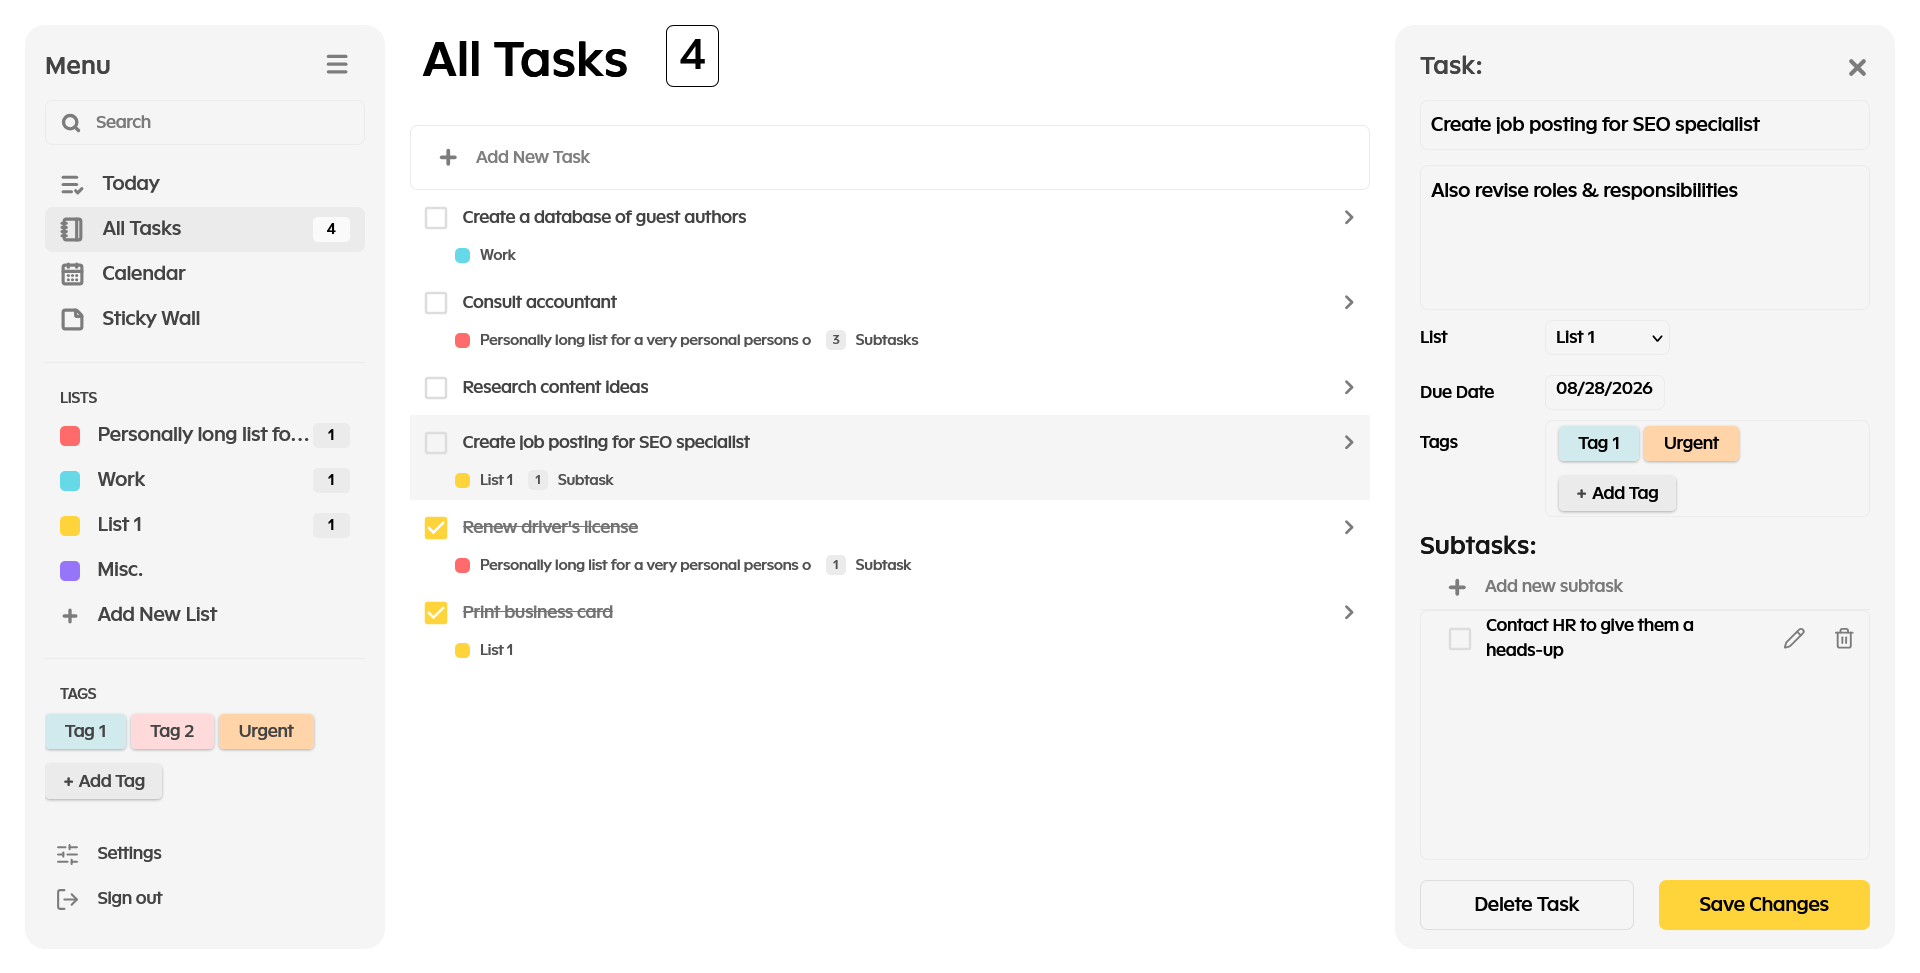
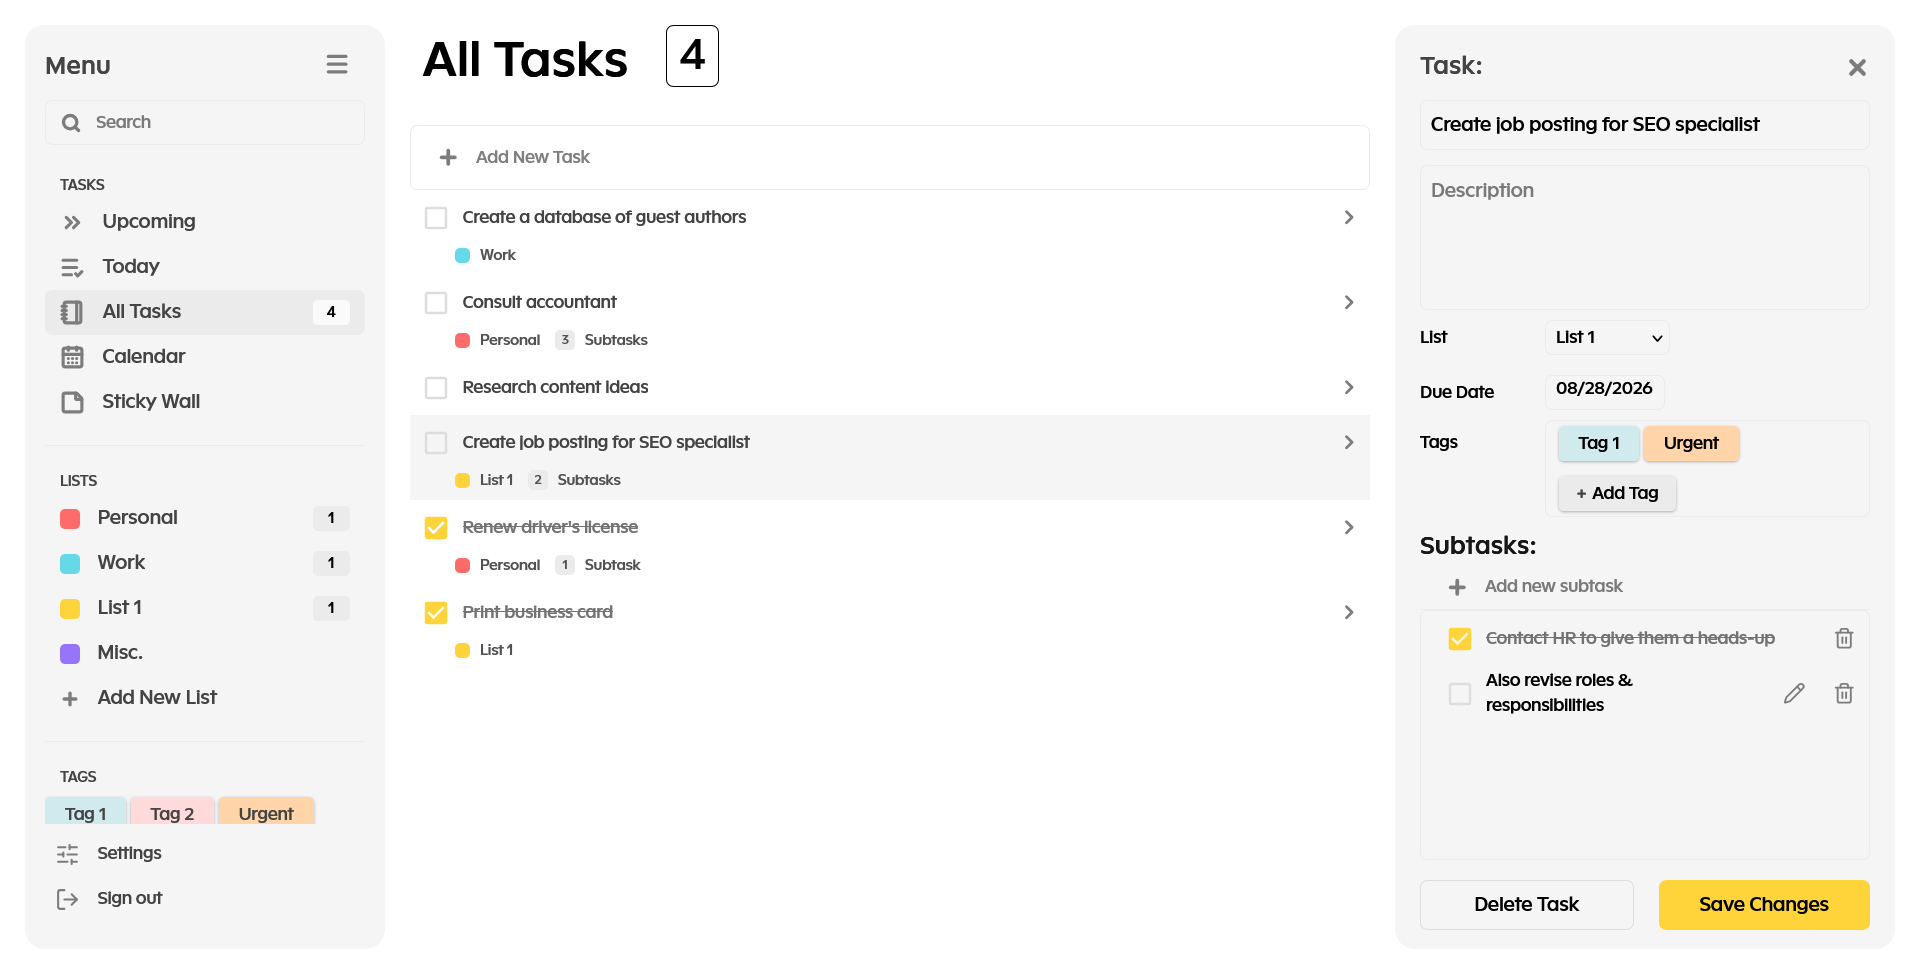
docs: finalize project documentation and release

diff --git a/README.md b/README.md
@@ -4,15 +4,17 @@ A full-stack MERN productivity application featuring authenticated multi-user ta
 
 ## Screenshot
 
-![Project Screenshot](image.png)
+![Application screenshot](image.png)
 
 ## Live Demo
 
-(to add once everything is deployed)
+[Live Application] https://task-manager-webapp-inky.vercel.app/
+
+[Source Code] https://github.com/Tim9675/task-manager-webapp
 
 ## Overview
 
-Users can organize work through lists, tags, subtasks, due dates, and notes, while each account's data is isolated through JWT-based authentication and authorization. The project was built as a portfolio application to demonstrate full-stack software engineering practices.
+Users can organize work through lists, tags, due dates, and notes, while each account's data is isolated through JWT-based authentication and authorization. The project was built as a portfolio application to demonstrate full-stack software engineering practices.
 
 ## Why I built this
 
@@ -24,7 +26,7 @@ This project began as an attempt to build a simple to-do application, a common p
 
 To accelerate my learning, I referenced both a UI design and a full-stack tutorial during the early stages of development. While these resources influenced the initial direction of the project, the application evolved significantly throughout development. The architecture, authentication system, validation layer, testing strategy, project structure, and many implementation details were redesigned or expanded based on what I learned along the way.
 
-The primary purpose of this project is to demonstrate my understanding of full-stack software engineering concepts rather than to serve as a production-ready SaaS application. As a result, the deployed version may periodically reset user accounts and application data to keep hosting costs manageable.
+The primary purpose of this project is to demonstrate my understanding of full-stack software engineering concepts rather than to serve as a production SaaS application. As a result, the deployed version may periodically reset user accounts and application data to keep hosting costs manageable.
 
 ### Video Reference
 
@@ -50,13 +52,13 @@ https://app.uizard.io/templates/XXJOvmKW0jhEyYZdmA7w/preview
 - Edit tasks
 - Delete tasks
 - Due date management
-- Add subtasks inside tasks
+- Create and manage subtasks
 
 ### Organization
 
-- Custom Lists
-- Custom Tags
-- Sticky notes linked to user accounts
+- Create and manage custom lists
+- Create and manage custom tags
+- Create and manage sticky notes
 
 ### Security
 
@@ -145,7 +147,6 @@ project-root/
     ├── index.html
     ├── package-lock.json
     ├── package.json
-    ├── README.md
     └── vite.config.js
 └── server/
     └── src/
@@ -197,6 +198,8 @@ npm install
 
 ## Environment Variables
 
+For local development, create the following .env files. Production environment variables are configured directly through the respective hosting platforms.
+
 ### Frontend
 
 Create a `.env` file inside the client directory.
@@ -204,7 +207,7 @@ Create a `.env` file inside the client directory.
 Example:
 
 ```env
-VITE_API_URL=your_api_url
+VITE_API_URL=http://localhost:5001/api
 ```
 
 ### Backend
@@ -223,7 +226,7 @@ UPSTASH_REDIS_REST_TOKEN=your_upstashredis_token
 
 JWT_SECRET_KEY=your_jwt_key
 
-CLIENT_URL=your_client-url
+CLIENT_URL=http://localhost:5173
 ```
 
 ## Running the Project
@@ -266,6 +269,15 @@ Inside the server directory:
 npm test
 ```
 
+## Deployment
+
+The frontend is deployed on Vercel and the backend is deployed on Render.
+
+- Frontend: Vercel
+- Backend: Render
+- Database: MongoDB Atlas
+- Rate limiting: Upstash Redis
+
 ## Design Decisions
 
 - React Context is used to manage application state.
@@ -276,15 +288,6 @@ npm test
 - Every resource is ownership-validated to prevent unauthorized access to another user's data.
 - Rate limiting is implemented using Upstash Redis.
 
-## Future Improvements
-
-- Dark mode
-- Mobile responsive design
-- Dedicated 404 not found page
-- Calendar view with events
-- Recurring tasks
-- CI/CD
-
 ## Lessons Learned
 
 - Designing reusable React Context providers and custom hooks
@@ -293,6 +296,15 @@ npm test
 - Protecting both frontend routes and backend resources
 - Writing unit and integration tests with Vitest
 - Separating business logic from controllers to improve maintainability
+
+## Future Improvements
+
+- Mobile responsive design
+- Dark Mode
+- Dedicated 404 not found page
+- Calendar view with events
+- Recurring tasks
+- CI/CD
 
 # Author
 
